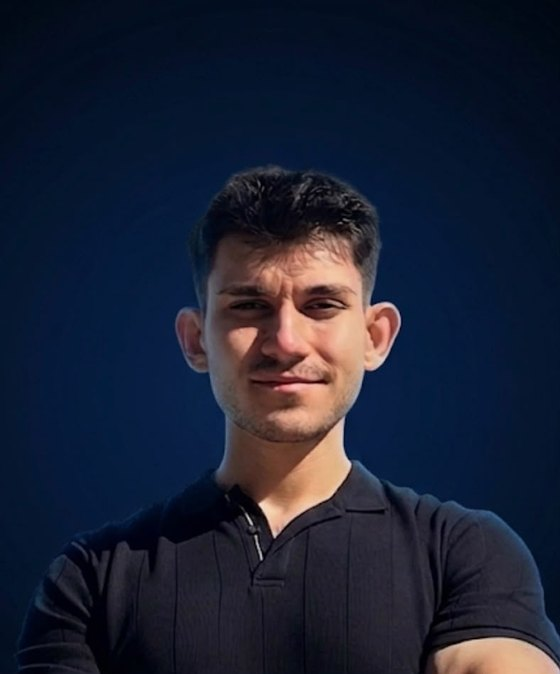
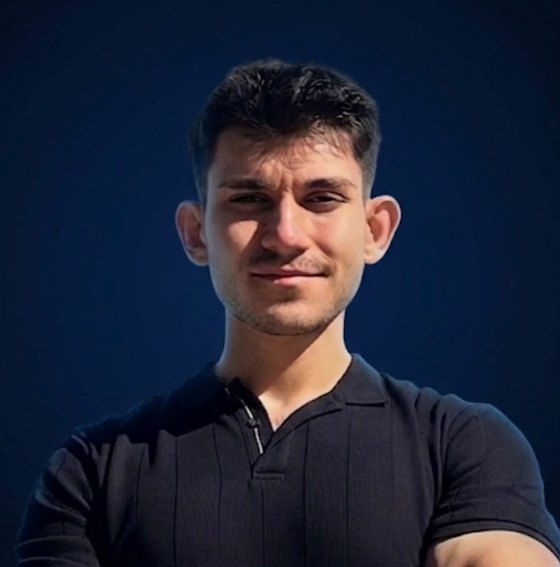
style(hero): profil fotografini ustten kirp, alt yaziyi sadelestir, kaydirma gostergesini kaldir

Changed region(s): [[0.0607, 0.0899, 0.9714, 0.9295], [0.7589, 0.8995, 1.0, 0.9894]]

diff --git a/style.css b/style.css
@@ -420,9 +420,6 @@ button { font: inherit; cursor: pointer; }
 @media (max-height: 780px) {
     .hero { padding-block: 40px 24px; gap: 48px; }
     .hero h1 { font-size: clamp(34px, 5vw, 52px); }
-    .scroll-cue-wrap { padding-bottom: 4px; }
-    .scroll-cue { gap: 6px; padding: 2px 14px 4px; }
-    .sc-mouse { height: 30px; width: 20px; }
 }
 
 .hero h1 {
@@ -477,7 +474,7 @@ button { font: inherit; cursor: pointer; }
 
 .portrait {
     width: 100%;
-    aspect-ratio: 788 / 948;   /* fotoğrafın kendi oranı — kırpma/gerilme yok */
+    aspect-ratio: 788 / 798;   /* kırpılmış fotoğrafın kendi oranı — gerilme yok */
     height: auto;
     object-fit: cover;
     border-radius: var(--r-lg);
@@ -506,76 +503,22 @@ button { font: inherit; cursor: pointer; }
     50%      { transform: scale(1.1); opacity: .85; }
 }
 
-/* Fotoğrafın altındaki yazılıp silinen rol satırı */
+/* Fotoğrafın altındaki yazılıp silinen rol satırı — kutusuz, düz yazı */
 .portrait-caption {
     width: 100%;
-    margin-top: 12px;
-    padding: 9px 12px;
-    border-radius: 12px;
-    background: rgba(13, 18, 34, .82);
-    backdrop-filter: blur(14px);
-    -webkit-backdrop-filter: blur(14px);
-    border: 1px solid var(--border);
-    display: flex;
-    align-items: center;
-    gap: 9px;
+    margin-top: 13px;
+    font-size: 12.5px;
+    min-height: 20px;
+    white-space: nowrap;
     overflow: hidden;
 }
 
-.portrait-caption .role-line { font-size: 12px; min-height: 0; white-space: nowrap; }
 .portrait-caption .caret { height: 13px; width: 7px; }
 
 @keyframes floatY {
     0%, 100% { transform: translateY(0); }
     50%      { transform: translateY(-10px); }
 }
-
-/* ── Aşağı kaydır göstergesi ──────────────────────────────── */
-.scroll-cue-wrap { display: flex; justify-content: center; padding-bottom: 12px; }
-
-.scroll-cue {
-    display: inline-flex;
-    flex-direction: column;
-    align-items: center;
-    gap: 9px;
-    padding: 6px 14px 10px;
-    background: none;
-    border: 0;
-    color: var(--text-dim);
-    transition: color .25s var(--ease), opacity .35s var(--ease), transform .35s var(--ease);
-}
-
-.scroll-cue:hover { color: var(--accent-light); }
-.scroll-cue.hide { opacity: 0; pointer-events: none; transform: translateY(8px); }
-
-.sc-mouse {
-    position: relative;
-    width: 23px;
-    height: 36px;
-    border: 1.5px solid currentColor;
-    border-radius: 12px;
-    opacity: .75;
-}
-
-.sc-mouse::after {
-    content: '';
-    position: absolute;
-    left: 50%;
-    top: 7px;
-    width: 3px;
-    height: 7px;
-    margin-left: -1.5px;
-    border-radius: 2px;
-    background: currentColor;
-    animation: scWheel 1.8s var(--ease) infinite;
-}
-
-@keyframes scWheel {
-    0%       { transform: translateY(0);   opacity: 1; }
-    55%, 100% { transform: translateY(11px); opacity: 0; }
-}
-
-.sc-label { font-size: 11px; font-weight: 600; letter-spacing: .1em; text-transform: uppercase; }
 
 /* ── Kayan teknoloji şeridi ───────────────────────────────── */
 .marquee {
@@ -1217,8 +1160,6 @@ footer {
     .hero-lead { margin-left: auto; margin-right: auto; }
     .hero-actions, .hero-meta, .eyebrow { justify-content: center; }
     .portrait-wrap { order: -1; justify-self: center; align-self: center; width: 190px; }
-    /* Dikey hero mobilde katlamanın çok altına düşüyor; gösterge orada işe yaramaz */
-    .scroll-cue-wrap { display: none; }
     .cv-layout, .contact-layout, .grid-2, .grid-3 { grid-template-columns: 1fr; }
     .cv-viewer { position: static; }
     .metric-grid { grid-template-columns: repeat(2, 1fr); }

diff --git a/app.js b/app.js
@@ -439,21 +439,11 @@ const PAGES = {
             <picture>
                 <source srcset="profile.webp" type="image/webp">
                 <img src="profile.jpg" alt="Süleyman Emre Arlı" class="portrait" loading="eager"
-                     width="200" height="241" fetchpriority="high">
+                     width="200" height="203" fetchpriority="high">
             </picture>
-            <div class="portrait-caption">
-                <span class="live-dot"></span>
-                <span class="role-line"><span id="role-text"></span><span class="caret"></span></span>
-            </div>
+            <p class="portrait-caption role-line"><span id="role-text"></span><span class="caret"></span></p>
         </div>
     </section>
-
-    <div class="wrap scroll-cue-wrap">
-        <button id="scroll-cue" class="scroll-cue" aria-label="Aşağı kaydır">
-            <span class="sc-mouse"></span>
-            <span class="sc-label">Aşağı kaydır</span>
-        </button>
-    </div>
 
     <section class="wrap section-sm">
         <div class="stat-strip reveal">
@@ -890,14 +880,6 @@ function initRoleTyper() {
     tick();
 }
 
-function initScrollCue() {
-    const cue = $('#scroll-cue');
-    if (!cue) return;
-    cue.addEventListener('click', () => {
-        $('#after-hero')?.scrollIntoView({ behavior: 'smooth', block: 'start' });
-    });
-}
-
 function initCounters(root) {
     $$('[data-count]', root).forEach(el => {
         animateCounter(el, Number(el.dataset.count), el.dataset.suffix || '');
@@ -1244,7 +1226,7 @@ function stopStatsLive() {
 // ═══════════════════════════════════════════════════════════════
 
 const PAGE_INIT = {
-    home: () => { initRoleTyper(); initCounters(); initContributions(); initFeatured(); initScrollCue(); },
+    home: () => { initRoleTyper(); initCounters(); initContributions(); initFeatured(); },
     about: () => { initContributions(); },
     projects: () => { initAllProjects(); },
     cv: () => { initCvViewer(); },
@@ -1380,7 +1362,6 @@ function initChrome() {
         const y = window.scrollY;
         nav.classList.toggle('scrolled', y > 12);
         toTop.classList.toggle('show', y > 500);
-        document.getElementById('scroll-cue')?.classList.toggle('hide', y > 100);
 
         const now = Date.now();
         if (now - lastReveal > 120) { lastReveal = now; revealFallback(); }
